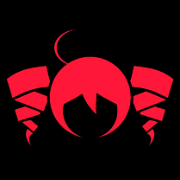
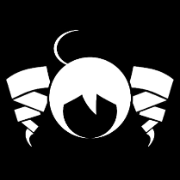
Media session API v1

Changed region(s): [[0.0278, 0.1389, 0.9722, 0.8333], [0.1667, 0.8056, 0.1944, 0.8333]]

diff --git a/app.js b/app.js
@@ -34,6 +34,10 @@ const shuffleBtn = document.querySelector("#shuffleBtn");
 const volume = document.querySelector("#volume");
 
 const state = { songs: [], filteredIds: [], currentId: null, shuffle: false, objectUrls: new Set() };
+const fallbackArtwork = [
+  { src: "assets/icon-192.png", sizes: "192x192", type: "image/png" },
+  { src: "assets/icon-512.png", sizes: "512x512", type: "image/png" },
+];
 
 fileInput.addEventListener("change", (event) => { addFiles([...event.target.files]); fileInput.value = ""; });
 dropZone.addEventListener("dragover", (event) => { event.preventDefault(); dropZone.classList.add("dragover"); });
@@ -42,11 +46,7 @@ dropZone.addEventListener("drop", (event) => { event.preventDefault(); dropZone.
 searchInput.addEventListener("input", renderLibrary);
 sortSelect.addEventListener("change", renderLibrary);
 
-playBtn.addEventListener("click", async () => {
-  if (!state.songs.length) return;
-  if (!state.currentId) { loadSong(state.filteredIds[0] || state.songs[0].id, true); return; }
-  if (audio.paused) await audio.play(); else audio.pause();
-});
+playBtn.addEventListener("click", togglePlayback);
 
 prevBtn.addEventListener("click", () => playRelative(-1));
 nextBtn.addEventListener("click", () => playRelative(1));
@@ -66,6 +66,7 @@ audio.addEventListener("loadedmetadata", updateProgress);
 window.addEventListener("beforeunload", () => { for (const url of state.objectUrls) URL.revokeObjectURL(url); });
 
 audio.volume = Number(volume.value);
+setupMediaSession();
 renderLibrary();
 updateStats();
 
@@ -145,8 +146,15 @@ async function loadSong(id, shouldPlay) {
   albumName.textContent = song.album;
   if (song.coverUrl) { coverArt.src = song.coverUrl; coverWrap.classList.add("has-cover"); }
   else { coverArt.removeAttribute("src"); coverWrap.classList.remove("has-cover"); coverFallback.textContent = initials(song.title); }
+  updateMediaSessionMetadata(song);
   renderLibrary();
   if (shouldPlay) { try { await audio.play(); } catch { audio.pause(); } } else updatePlayButton();
+}
+
+async function togglePlayback() {
+  if (!state.songs.length) return;
+  if (!state.currentId) { loadSong(state.filteredIds[0] || state.songs[0].id, true); return; }
+  if (audio.paused) await audio.play(); else audio.pause();
 }
 
 function playRelative(direction) {
@@ -163,9 +171,10 @@ function playRelative(direction) {
 }
 
 function updatePlayButton() {
-  playIcon.textContent = audio.paused ? "▶" : "Ⅱ";
+  playIcon.textContent = audio.paused ? "Play" : "Pause";
   playBtn.setAttribute("aria-label", audio.paused ? "Play" : "Pause");
   playBtn.title = audio.paused ? "Play" : "Pause";
+  updateMediaSessionPlaybackState();
 }
 
 function updateProgress() {
@@ -176,6 +185,71 @@ function updateProgress() {
   progress.value = total ? String(Math.round((current / total) * 1000)) : "0";
   const song = state.songs.find((candidate) => candidate.id === state.currentId);
   if (song && total && song.duration !== total) { song.duration = total; renderLibrary(); updateStats(); }
+  updateMediaSessionPosition();
+}
+
+
+function setupMediaSession() {
+  if (!("mediaSession" in navigator)) return;
+
+  setMediaSessionAction("play", () => togglePlayback());
+  setMediaSessionAction("pause", () => audio.pause());
+  setMediaSessionAction("previoustrack", () => playRelative(-1));
+  setMediaSessionAction("nexttrack", () => playRelative(1));
+  setMediaSessionAction("stop", () => {
+    audio.pause();
+    audio.currentTime = 0;
+  });
+  setMediaSessionAction("seekto", (details) => {
+    if (Number.isFinite(details.seekTime) && Number.isFinite(audio.duration)) {
+      audio.currentTime = details.seekTime;
+    }
+  });
+  setMediaSessionAction("seekbackward", null);
+  setMediaSessionAction("seekforward", null);
+  updateMediaSessionPlaybackState();
+}
+
+function setMediaSessionAction(action, handler) {
+  try {
+    navigator.mediaSession.setActionHandler(action, handler);
+  } catch {
+    // Some browsers expose Media Session but support only part of the action list.
+  }
+}
+
+function updateMediaSessionMetadata(song) {
+  if (!("mediaSession" in navigator) || !("MediaMetadata" in window)) return;
+
+  navigator.mediaSession.metadata = new MediaMetadata({
+    title: song.title,
+    artist: song.artist,
+    album: song.album || "Local Music",
+    artwork: song.coverUrl
+      ? [{ src: song.coverUrl, sizes: "512x512", type: "image/jpeg" }]
+      : fallbackArtwork,
+  });
+  updateMediaSessionPosition();
+}
+
+function updateMediaSessionPlaybackState() {
+  if (!("mediaSession" in navigator)) return;
+  navigator.mediaSession.playbackState = audio.paused ? "paused" : "playing";
+}
+
+function updateMediaSessionPosition() {
+  if (!("mediaSession" in navigator) || typeof navigator.mediaSession.setPositionState !== "function") return;
+  if (!Number.isFinite(audio.duration) || audio.duration <= 0) return;
+
+  try {
+    navigator.mediaSession.setPositionState({
+      duration: audio.duration,
+      playbackRate: audio.playbackRate || 1,
+      position: Math.min(audio.currentTime || 0, audio.duration),
+    });
+  } catch {
+    // Ignore transient position errors while metadata is still settling.
+  }
 }
 
 function updateStats() {